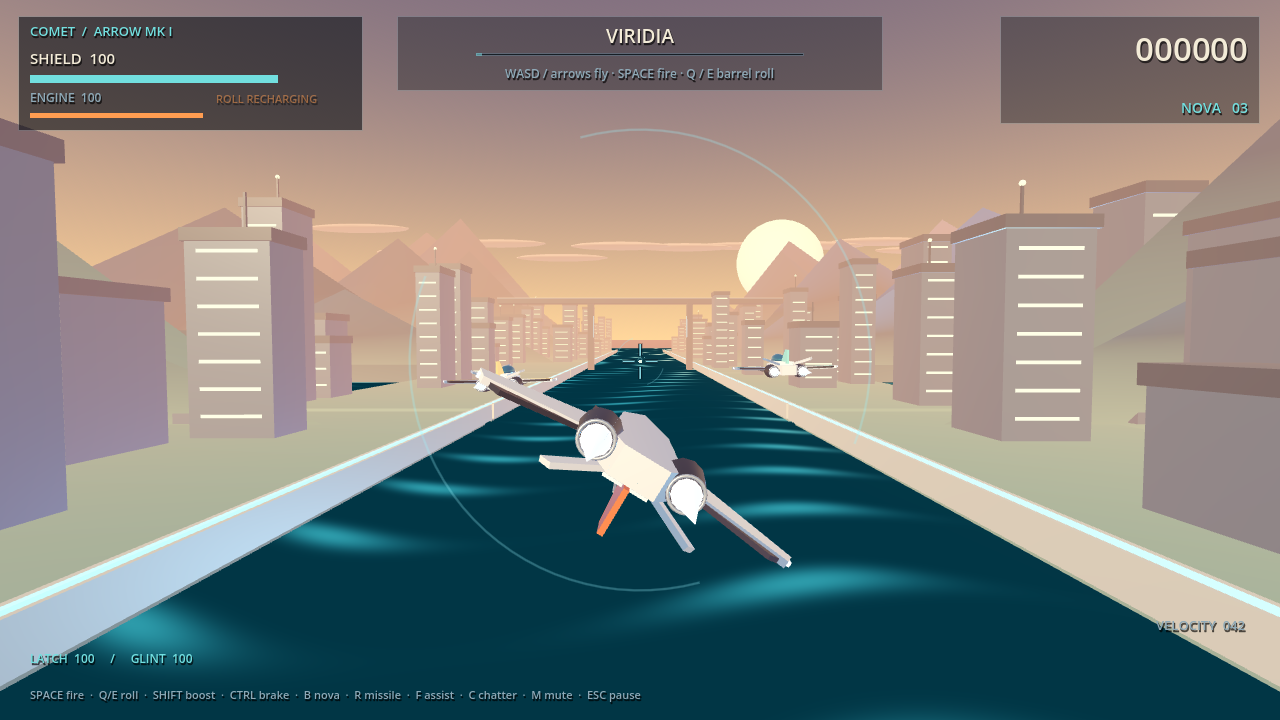
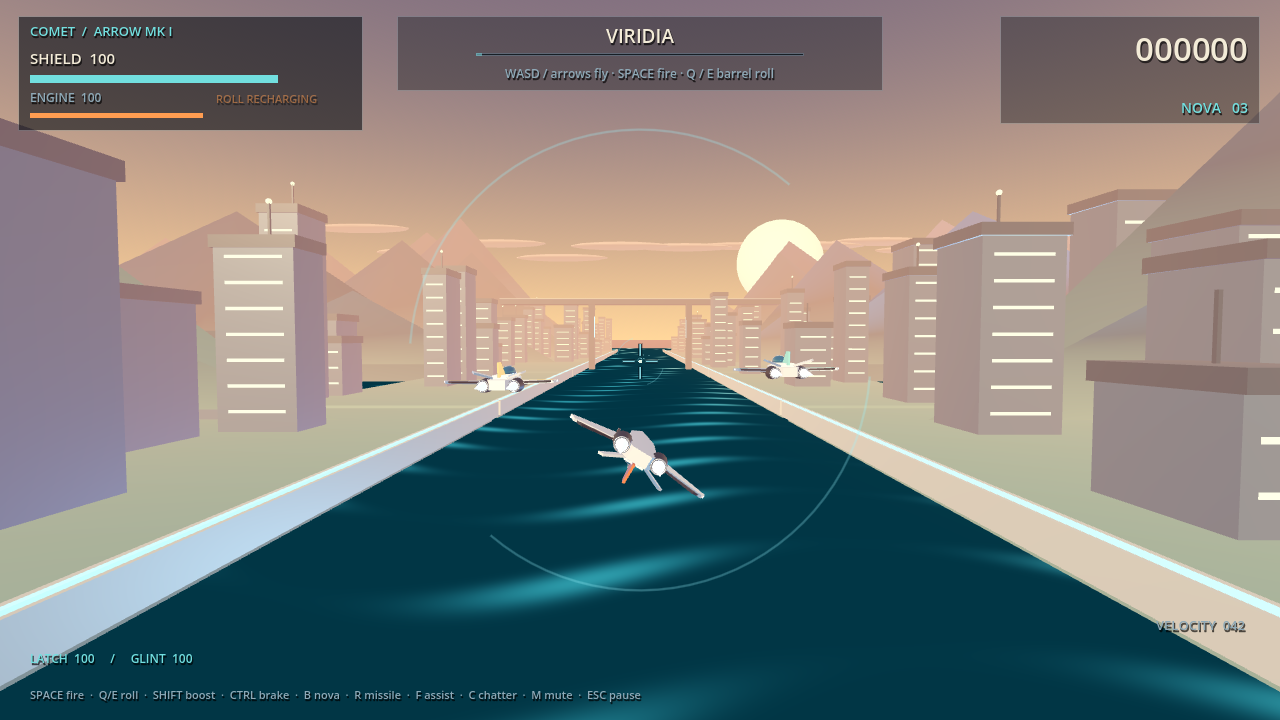
Restore ship flight scale and harden browser checks for software rendering

diff --git a/docs/VERIFICATION.md b/docs/VERIFICATION.md
@@ -5,7 +5,7 @@ Engine: Godot **4.7.2.stable.official.ed1daf0bf**. Compatibility renderer.
 ## Passed
 
 - All scripts parse and the main scene imports.
-- `tests/game_smoke.gd`: **49 integration assertions, 0 failures**. Actual scene/input paths cover boot, briefing, launch, bounded movement, boost, laser hits, lock acquisition, homing impact, roll protection, nova clearing, ring upgrades, repair/ordnance pickups, pause/resume, full route schedules for all stages, boss pod damage, lethal projectile transition, debrief/next, unlock persistence, malformed/out-of-range save fields, defeat and retry.
+- `tests/game_smoke.gd`: **50 integration assertions, 0 failures**. Actual scene/input paths cover boot, briefing, launch, bounded movement, boost, laser hits, lock acquisition, homing impact, roll protection, nova clearing, ring upgrades, repair/ordnance pickups, pause/resume, full route schedules for all stages, boss pod damage, lethal projectile transition, debrief/next, unlock persistence, malformed/out-of-range save fields, defeat and retry.
 - Separate logic audit verified a killing boss projectile while other projectiles were active, and clean transition cleanup.
 - All nine ship rigs instantiated and animated over 120 ticks each. RIME weapon visibility drives tentacle collapse.
 - All three world setups, scrolling updates and resets run. Seven chunks recycle per world.
@@ -53,4 +53,10 @@ node tests/web_smoke.cjs
 
 Set `CHROMIUM_EXECUTABLE` to use an existing Chromium executable. Results and screenshots are written under `build/web-smoke/`. The smoke starts its own local HTTP server and closes it on completion.
 
-Final browser captures (`docs/previews/web-briefing.png` and `web-flight.png`) were inspected after correcting paragraph wrapping and replacing unsupported symbol glyphs. The final eight-check run is recorded in `docs/web-smoke-results.json`. Input assertions wait for observed game movement and shot counts, so shared software-rendering load cannot turn an arbitrary wall-clock delay into a false failure.
+Final browser captures (`docs/previews/web-briefing.png` and `web-flight.png`) were inspected after correcting paragraph wrapping and replacing unsupported symbol glyphs. The final eight-check run is recorded in `docs/web-smoke-results.json`. Input assertions wait for observed game movement and shot counts instead of assuming an arbitrary wall-clock delay is sufficient.
+
+The launch regression now advances the animated briefing before launch and verifies that the player returns to normal flight scale. The final web flight capture also shows this corrected scale. Both release packages were rebuilt after this fix; the native test passed 50 assertions and the browser test passed all eight checks.
+
+The first hosted browser smoke reached `LAUNCH` but exceeded the original 45-second limit waiting for `FLIGHT`. Launch requires at least 65 rendered frames because the simulation caps delta at 0.05 seconds. The fixture now renders at 640 × 360 (one quarter of the previous pixel count), allows at most 180 seconds per mode transition and 45 seconds per input assertion, and records the failed step, last telemetry, canvas dimensions, and elapsed time. These changes retain all eight gameplay checks and the clean-console gate. The inspected 1280 × 720 preview images above remain the final release captures.
+
+The revised 640 × 360 fixture passed locally in Chrome for Testing 156.0.8078.47: eight checks, zero JavaScript or engine-console errors. The hosted rerun is a separate check; the local pass does not establish its result.

diff --git a/PROGRESS.md b/PROGRESS.md
@@ -15,7 +15,7 @@ Implemented under Jonathan's request for a best-effort, one-shot Starfox-like ga
 
 ### Evidence and limits
 
-Read `docs/VERIFICATION.md` for actual validation and build status. The integration suite has 49 assertions, including all mission completion paths. The exported Web build also passed 8 real Chromium input/lifecycle checks; CI now includes that regression gate. Automated playthroughs use invulnerability for route coverage and reduced boss health for deterministic completion. Human balance testing, physical gamepad testing and native Windows runtime testing remain separate work.
+Read `docs/VERIFICATION.md` for actual validation and build status. The integration suite has 50 assertions, including all mission completion paths. The exported Web build also passed 8 real Chromium input/lifecycle checks; CI now includes that regression gate. Automated playthroughs use invulnerability for route coverage and reduced boss health for deterministic completion. Human balance testing, physical gamepad testing and native Windows runtime testing remain separate work.
 
 ### Next useful work
 
